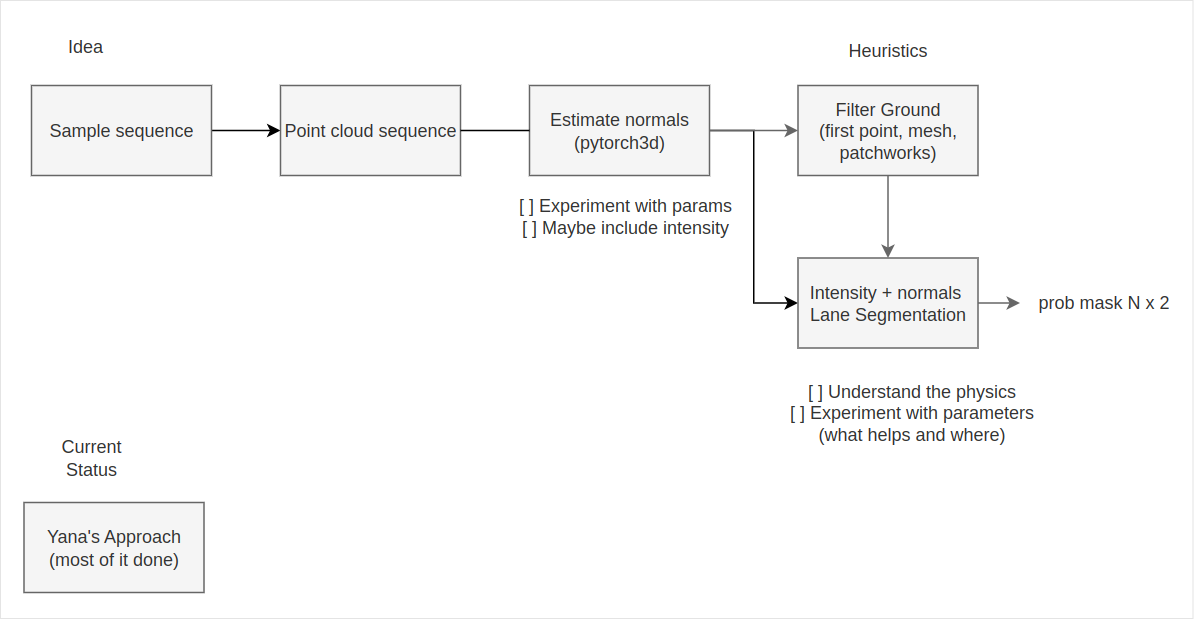
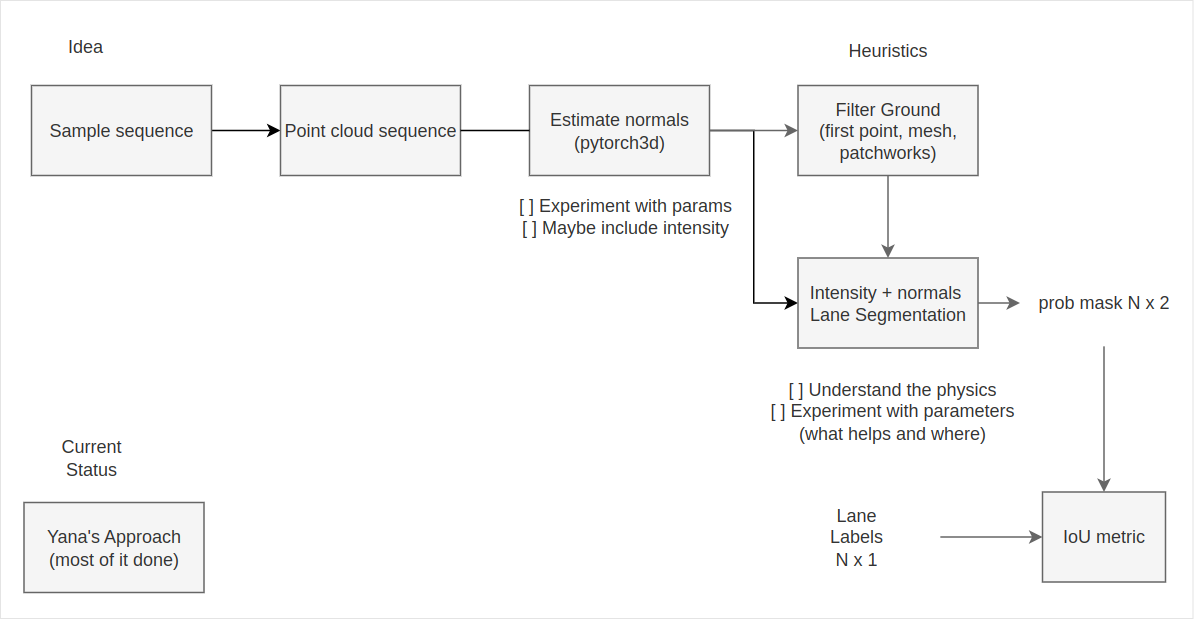
full update

diff --git a/README.md b/README.md
@@ -17,27 +17,43 @@
 
 # Segmentation
 ![alt text](schemes/images/segmentation.png)
+
+- Start with one data sequence with labels from Filip (point-wise)
+- After loading the data, all should be in pytorch
+- Data loading should have a choice to load fever time-frames
+- IoU metric to evaluate the segmentation (codes in the repo)
+- Experiment with different hyperparameters (thresholds, points for normal ...) 
+- Visualize normals (mayavi is good for this, example in the repo)
+- Visualize performance in table (recommend pandas) and graph (matplotlib)
+
 # Instance
+![alt text](schemes/images/instance.png)
 L_PCA
-# Matching
+# Lane direction vectors
+![alt text](schemes/images/direction_vectors.png)
 L_NN, L_Smooth
 
 ![alt text](schemes/images/lanes_method.png)
 
 # Workflow
 - All in pytorch
+- All functions are most likely already done somewhere
+- Compute in 2D after segmentation
 - Jupyter (Recommended for developing, then refactor to scripts)
 - Github Copilot (one month free trial)
-- pre-push (https://git-scm.com/book/en/v2/Customizing-Git-Git-Hooks)
+- pre-push (https://git-scm.com/book/en/v2/Customizing-Git-Git-Hooks) or bash script
+- coordinated refactor when needed
+
 # Server
 - predescribed packages
 - ssfhs
 - bashrc
 - Boruvka
 - pytorch3d
-
-# Visuals
 - deprecated visuals?
+ 
+
+
 
 # Discord server
 https://discord.gg/wa4qwwANK
